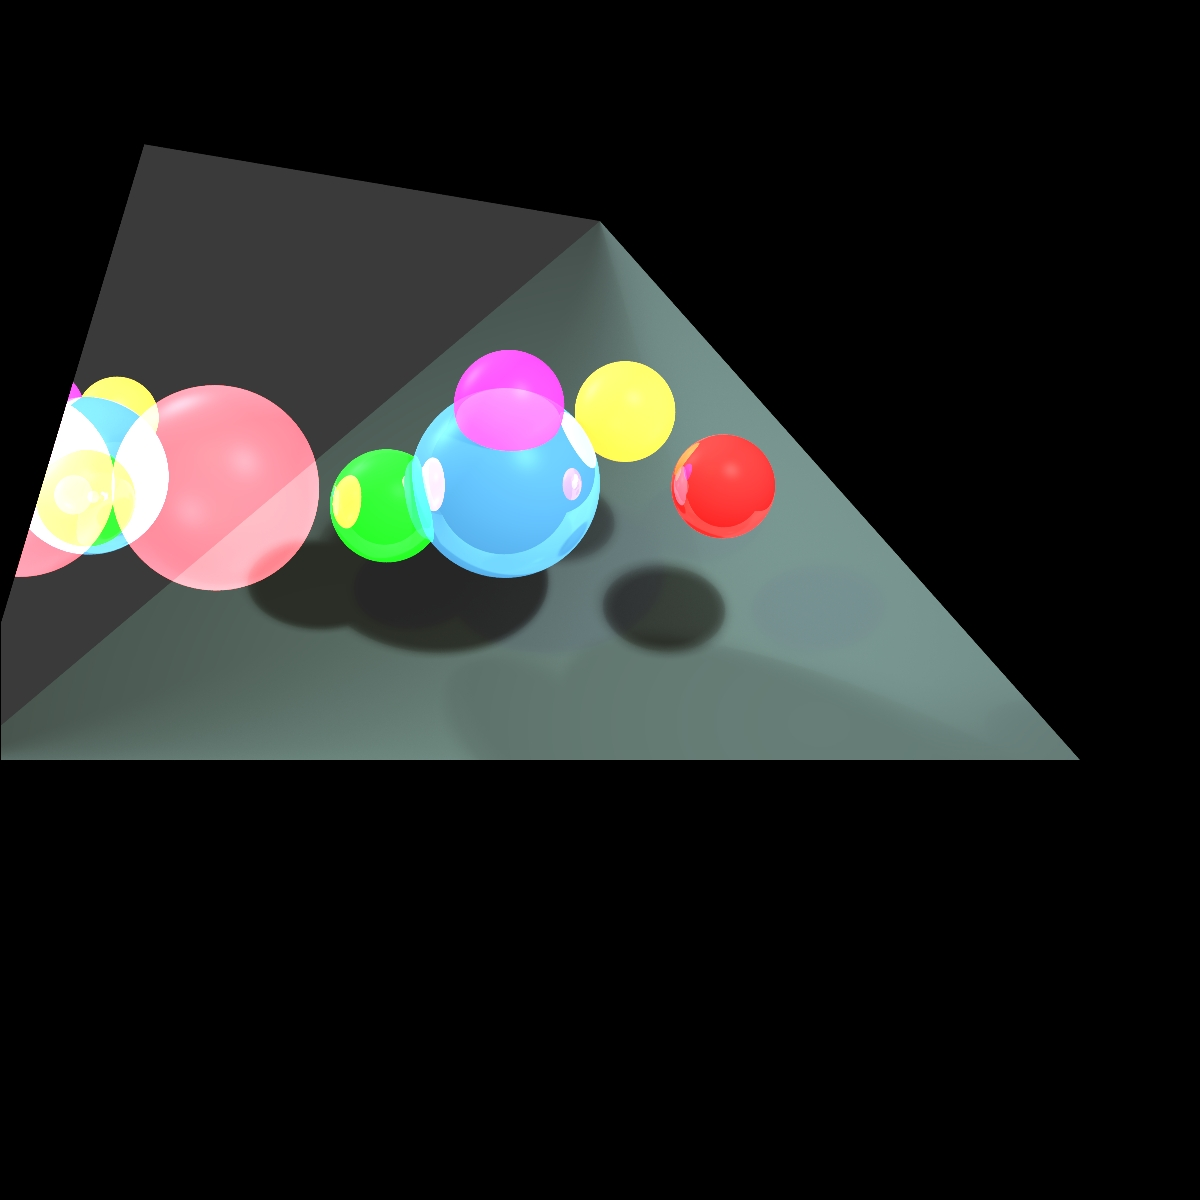
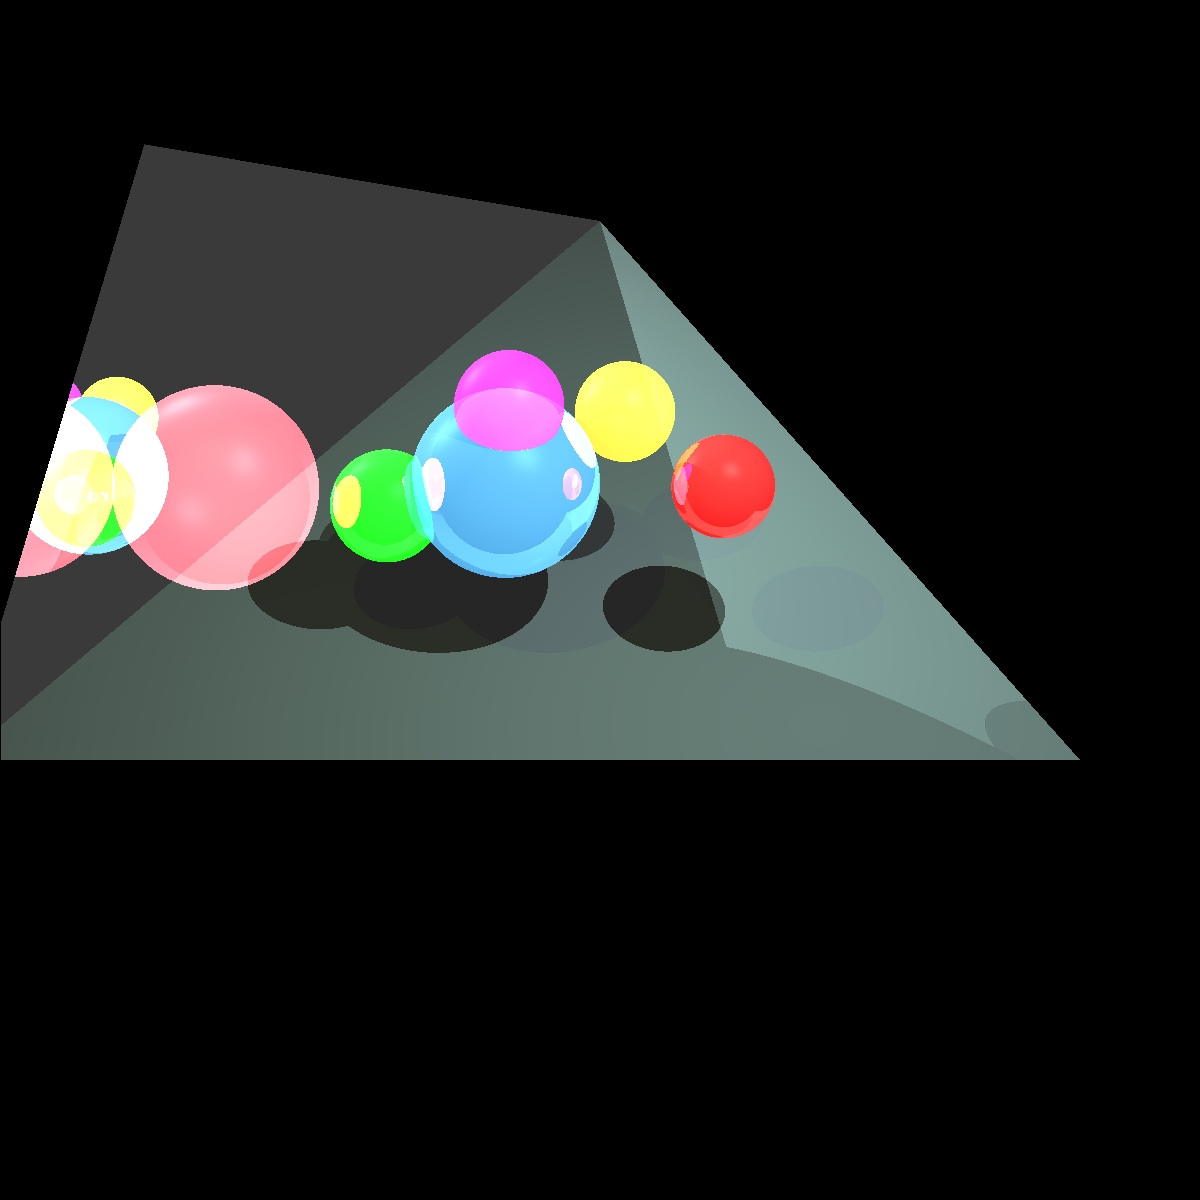
miniproject2 with comment

diff --git a/src/geometries/Geometries.java b/src/geometries/Geometries.java
@@ -27,7 +27,7 @@ public class Geometries implements Intersectable {
     }
 
     /**
-     * Geometries constructor that allow to add geometries
+     * Geometries constructor that allow to add geometries and the "box"
      * @param _geometries to add to the collection of geometries
      */
     public Geometries(List<Intersectable> _geometries) {
@@ -69,6 +69,10 @@ public class Geometries implements Intersectable {
         return result;
     }
 
+    /**
+     * function that allows us to build the box finding the min and the max Points.
+     * @return the box
+     */
     public Box buildBox() {
         if (_box != null) return _box;
         Point3D min, max;
@@ -90,10 +94,20 @@ public class Geometries implements Intersectable {
         return _box;
     }
 
+    /**
+     * getter of the box
+     * @return the box
+     */
     public Box get_box() {
         return _box;
     }
 
+    /**
+     * the function checks if there is intersection between the ray and the box
+     * @param box the box
+     * @param ray the ray to the scene
+     * @return True if there is intersection between the ray and the box
+     */
     private boolean isIntersected(Box box, Ray ray) {
         double tmin = Double.NEGATIVE_INFINITY, tmax = Double.POSITIVE_INFINITY;
         Point3D headVector = ray.get_direction().get_head();
@@ -148,6 +162,12 @@ public class Geometries implements Intersectable {
         }
     }
 
+    /**
+     * the function return the distance between boxes
+     * @param boxA one box
+     * @param boxB the other box
+     * @return the distance between the boxes A and B
+     */
     double boxesDistance(Box boxA, Box boxB){
         double minA=0, minB=0;
         if (!boxA._min.equals(boxB._min) && !boxA._min.equals(boxB._max))

diff --git a/src/geometries/Cylinder.java b/src/geometries/Cylinder.java
@@ -33,11 +33,23 @@ public class Cylinder extends Tube {
         this._emission = _emission;
     }
 
+    /**
+     * constructor of cylinder with emission, material, radius, axisRay, height
+     * @param _emission the color of subject
+     * @param _material the material of the cylinder
+     * @param _radius the radius of the cylinder
+     * @param _axisRay ray of the axis of the Cylinder
+     * @param _height the height of the Cylinder
+     */
     public Cylinder(Color _emission, Material _material, double _radius, Ray _axisRay, double _height) {
         this(_emission, _radius, _axisRay, _height);
         this._material = _material;
     }
 
+    /**
+     * getter for the height of the cylinder
+     * @return the height of the cylinder
+     */
     public double get_height() {
         return _height;
     }

diff --git a/src/geometries/Plane.java b/src/geometries/Plane.java
@@ -43,7 +43,16 @@ public class Plane extends Geometry {
         _normal = temp_vector.normalized();
         this._box = buildBox();
     }
-
+    public Plane (Color _emission, Material _material,Point3D x, Point3D y, Point3D z)
+    {
+        this._emission = _emission;
+        this._material = _material;
+        _p = x;
+        Vector v1 = y.subtract(x);
+        Vector v2 = z.subtract(x);
+        Vector temp_vector = v1.crossProduct(v2);
+        _normal = temp_vector.normalized();
+    }
     /**
      * constructor of Plane
      * @param _emission = the color of object

diff --git a/src/unittests/renderer/Mini1Test.java b/src/unittests/renderer/Mini1Test.java
@@ -52,7 +52,7 @@ public class Mini1Test {
                         1, 4E-5, 2E-7, 200));
 
         ImageWriter imageWriter = new ImageWriter("essai", 500, 500, 1200, 1200);
-        Render render = new Render(imageWriter, scene).setMultithreading(3).setDebugPrint();
+        Render render = new Render(imageWriter, scene).setMultithreading(40).setDebugPrint();
 
         scene.getCamera().set_IMPROVE_PIXEL(true);
         render.set_SOFT_SHADOW(true);

diff --git a/src/geometries/Intersectable.java b/src/geometries/Intersectable.java
@@ -42,9 +42,17 @@ public interface Intersectable {
 
     }
 
+    /**
+     * class for the box
+     */
     class Box {
         Point3D _min, _max;
 
+        /**
+         * constructor of the Box
+         * @param _min the point minimum of the box
+         * @param _max the point maximum of the box
+         */
         public Box(Point3D _min, Point3D _max) {
             this._min = _min;
             this._max = _max;

diff --git a/src/renderer/Render.java b/src/renderer/Render.java
@@ -465,6 +465,11 @@ public class Render {
 		if (_print) System.out.printf("\r100%%\n");
 	}
 
+    /**
+     * the private function Calcolor using by the principal CalcColor function.
+     * @param rays the list of the ray
+     * @return the final Color
+     */
     private Color calcColor(List<Ray> rays) {
         Color sum_color = new Color(Color.BLACK);
         for (Ray ray : rays) {

diff --git a/src/geometries/Sphere.java b/src/geometries/Sphere.java
@@ -119,6 +119,10 @@ public class Sphere extends RadialGeometry {
         return results;
     }
 
+    /**
+     * the function allows us to create the box around the sphere
+     * @return the box
+     */
     @Override
     public Box buildBox() {
         if (_box != null) return _box;

diff --git a/src/geometries/Tube.java b/src/geometries/Tube.java
@@ -64,6 +64,7 @@ public class Tube extends RadialGeometry {
         return orthogonal;
     }
 
+
     @Override
     public List<GeoPoint> findIntersections(Ray ray) {
         return null;
